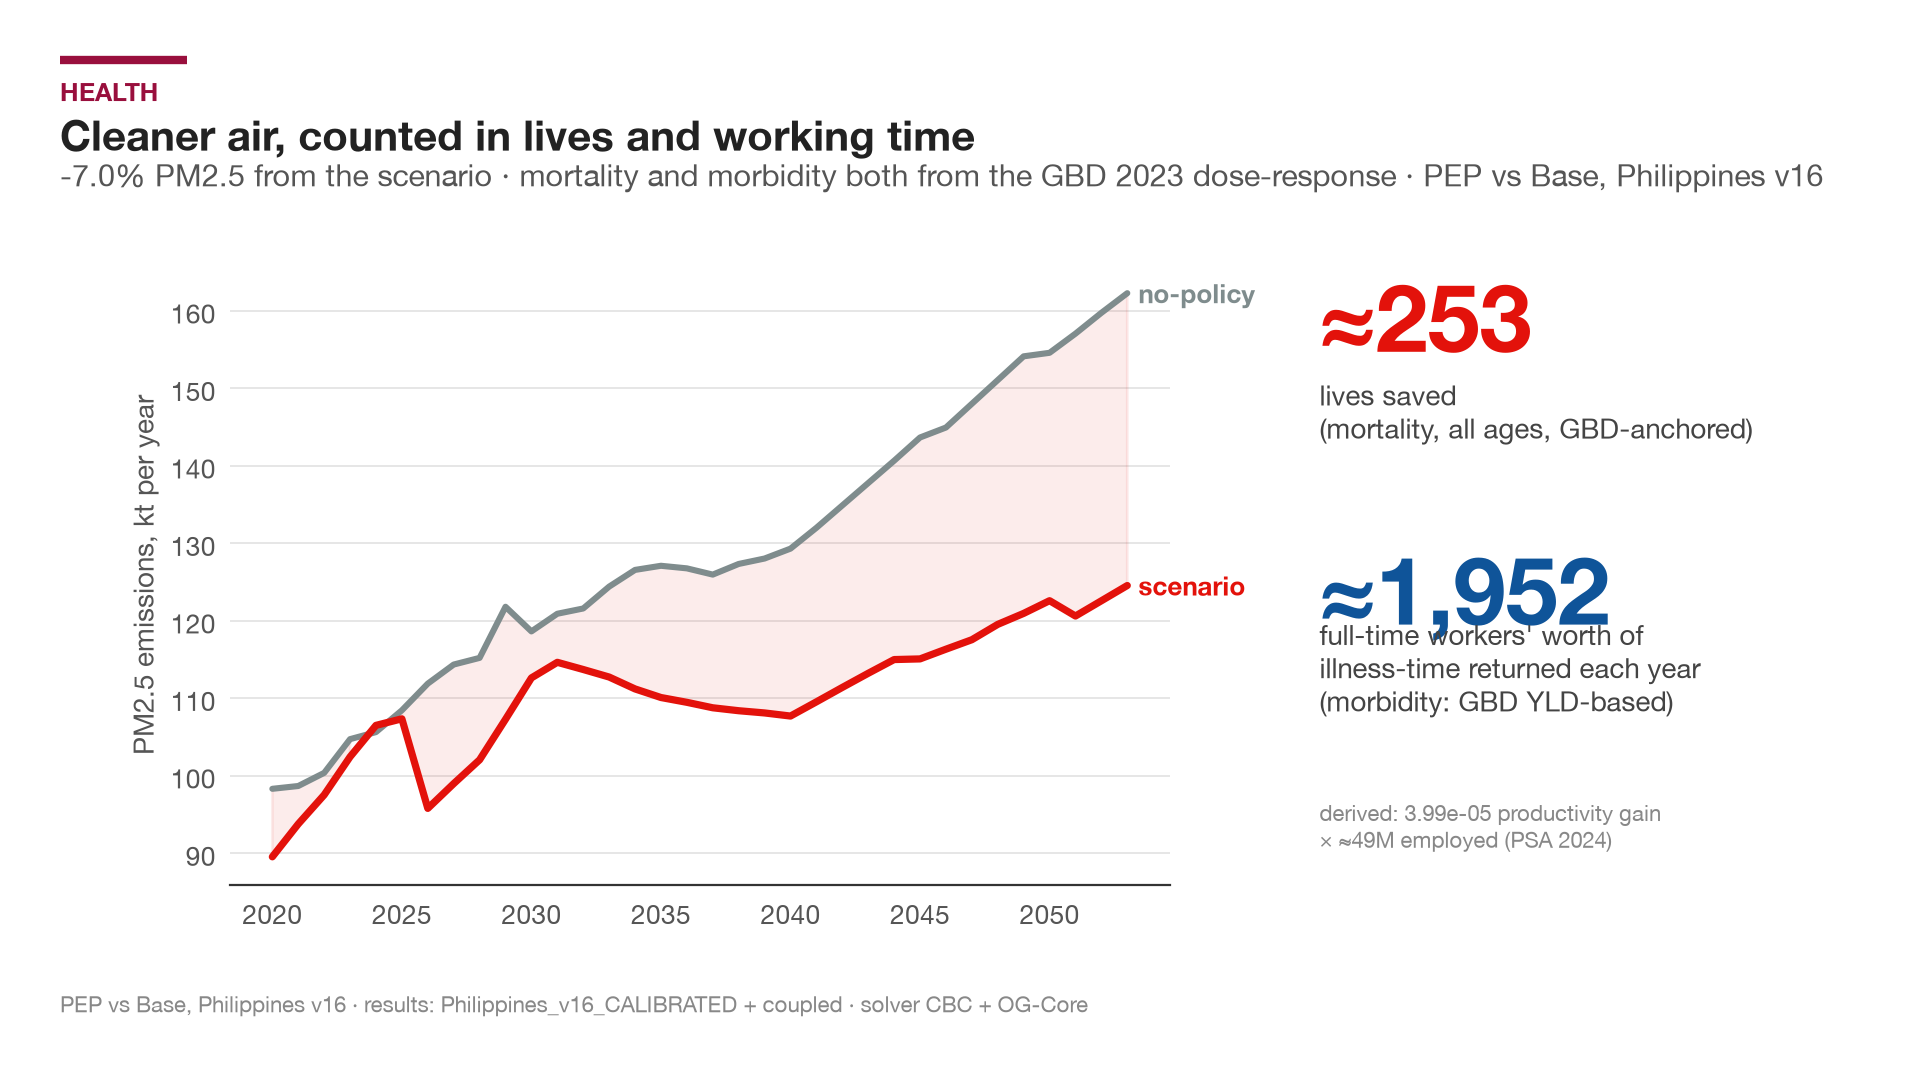
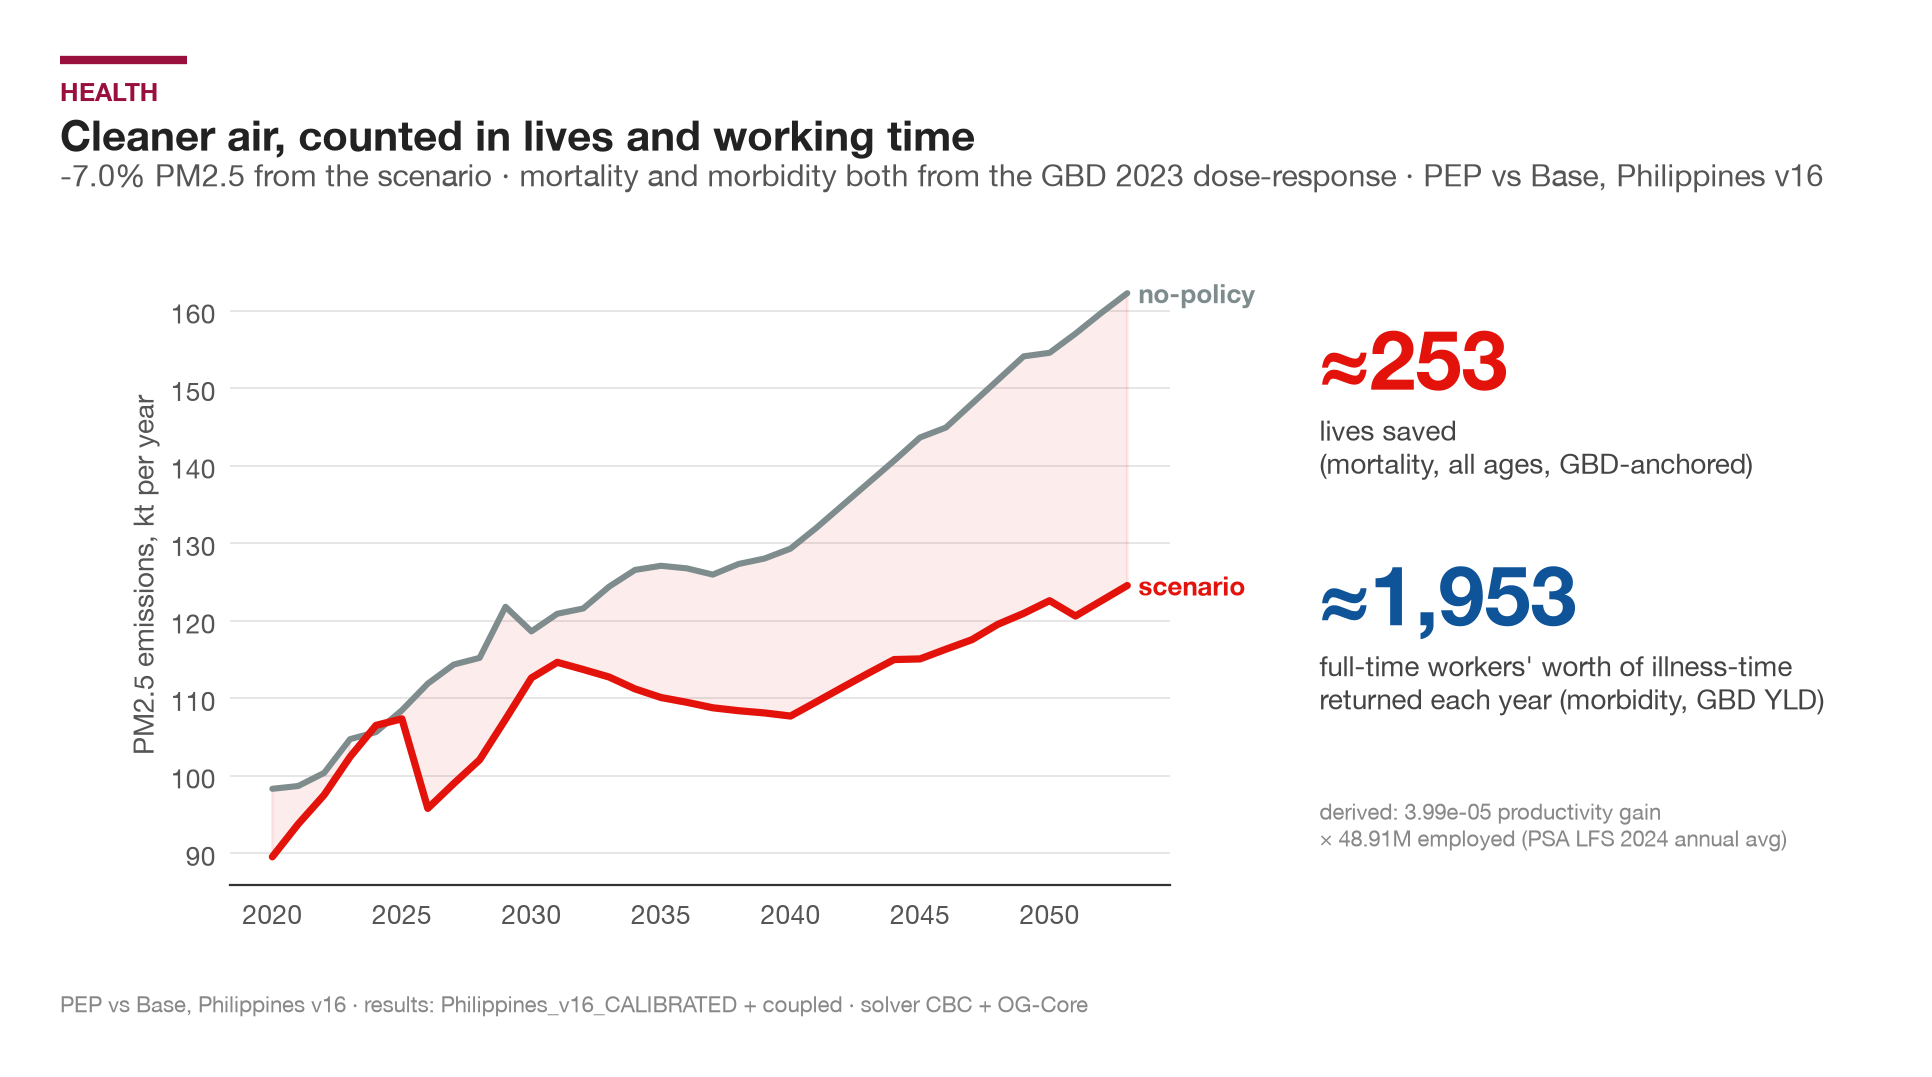
Methods paper closing sections: discussion (transmission first-order, one-pass, structural gap, health bridge, externally-checked calibration discipline), conclusion+roadmap, appendices (notation, touched objects, channel map, run record, battery/golden). Employment base 48.91M (PSA LFS 2024) throug

Changed region(s): [[0.6832, 0.5209, 0.9317, 0.6741], [0.6832, 0.2451, 0.9006, 0.4596], [0.6832, 0.7354, 0.9317, 0.7967]]

diff --git a/paper/sections/10-appendix.tex b/paper/sections/10-appendix.tex
@@ -1,18 +1,106 @@
 \section{Notation}
 \label{app:notation}
-% TODO: glossary table of symbols -- S, J, M, I; tau^c, tau^b, alpha_I, alpha_T;
-% K, K_g, gamma_m, gamma_{g,m}, Z; r, r_p, w, p_m; rho(s,t), e(t,s,j), c_min; theta_m.
 
-\section{OG-Core equations}
+\begin{table}[H]
+\centering\footnotesize
+\caption{Symbols used in the text.}
+\begin{tabular}{@{}llp{0.62\linewidth}@{}}
+\toprule
+& symbol & meaning \\
+\midrule
+dimensions
+& $S$ & periods of economic life (model age) \\
+& $J$ & lifetime-income (ability) types \\
+& $\Mind$ & production industries \\
+& $\Igood$ & consumption goods \\
+\addlinespace
+policy
+& $\tau^{c}_{i}$ & consumption-tax wedge on good $i$ (the energy wedge enters here) \\
+& $\tau^{b}$ & business income tax rate \\
+& $\alpha_I$ & public investment as a share of GDP \\
+& $\alpha_T$ & lump-sum transfers as a share of GDP (recycling enters here) \\
+\addlinespace
+production
+& $K$, $K_g$ & private and public capital \\
+& $\gamma_m$ & capital share of value added in industry $m$ \\
+& $\gamma_{g,m}$ & public-capital share in industry $m$ \\
+& $Z_m$ & total factor productivity in industry $m$ \\
+\addlinespace
+prices
+& $r$, $r_p$ & interest rate; household portfolio return \\
+& $w$ & wage \\
+& $p_m$ & output price of industry $m$ \\
+\addlinespace
+demography and labour
+& $\rho(s,t)$ & mortality hazard at age $s$, period $t$ \\
+& $e(t,s,j)$ & effective labour units by period, age, and type \\
+& $c_{\min,i}$ & subsistence (necessity) consumption of good $i$ \\
+\addlinespace
+mappings
+& $\theta_{m,i}$ & industry-to-consumption-good weights \\
+\bottomrule
+\end{tabular}
+\end{table}
+
+\section{The economy-model objects the mappings touch}
 \label{app:og-equations}
-% TODO: the household problem, firm FOCs, government budget, and market clearing in
-% full -- the detail compressed in Sec. 3.1.
+The complete statement of the household problem, firm first-order conditions,
+government budget, and market clearing is maintained in the \OGCore{} documentation
+and is not duplicated here; this appendix fixes which objects of that statement the
+mappings read or move, so the channel specifications of \Cref{sec:channels} can be
+checked against the host model.
 
-\section{The full channel-to-variable map}
+\emph{Households} choose consumption and labour over $S$ periods across $J$ types.
+The mappings touch: the consumption-tax vector $\tau^{c}_{i}$, where the household
+energy wedge enters the demand condition, the budget, and the composite price; the
+transfer share $\alpha_T$, where recycling returns the notional revenue; the
+mortality hazard $\rho(s,t)$ and the implied population, which the health mapping
+recomputes under a shocked survival schedule; the effective-labour profile
+$e(t,s,j)$, which the morbidity component scales on working ages; and the
+subsistence floor $c_{\min,i}$, which makes energy a partial necessity.
+
+\emph{Firms} in industry $m$ produce with private capital, public capital, and
+labour. The mappings touch: the capital share $\gamma_m$ of the electricity industry
+(the capital-intensity lever); the investment tax treatment inside the user cost of
+capital (the capital-demand lever); and industry unit costs, where the
+inter-industry cost-push applies exposure-weighted wedges.
+
+\emph{Government} taxes, spends, transfers, and borrows. The mappings touch: the
+public-investment share $\alpha_I$ (grid investment becomes public capital), the
+booking of consumption-tax revenue (the wedge and the standalone carbon payment),
+and, through $\alpha_T$, the transfer side of recycling.
+
+\emph{From the solved equilibrium}, the return mappings read the portfolio return
+$r_p$ (the planning-rate candidate) and industry output or household consumption
+(the demand-path candidate); they write files for the energy model and change
+nothing inside the economy.
+
+\section{The channel-to-object map}
 \label{app:channel-map}
-% TODO: the appendix-level diagram (reuse presentation diagram `channels`): each of the
-% eight channels at the variable level, with direction (colour + arrowhead) and theory
-% status (line style). NB the deck diagram currently shows seven -- add energy_capex.
+
+\begin{table}[H]
+\centering\footnotesize
+\caption{Every registered mapping, its direction, the object it moves, and its role
+in the application. ``Emitted'' mappings write energy-model inputs after the solve
+and bind nothing in a single pass.}
+\begin{tabularx}{\linewidth}{@{}l l L l@{}}
+\toprule
+mapping & direction & object moved & role \\
+\midrule
+\chan{energy\_price}      & \CLEWS$\to$\OGCore & $\tau^{c}_{i}$ on the energy good; optional recycle via $\alpha_T$ & applied in \chan{coupled} \\
+\chan{energy\_cost\_push} & \CLEWS$\to$\OGCore & industry unit costs via input--output exposure & applied in \chan{coupled} \\
+\chan{energy\_price\_tfp} & \CLEWS$\to$\OGCore & sectoral productivity $Z_m$ (alternative routing) & diagnostic alternative \\
+\chan{investment}         & \CLEWS$\to$\OGCore & $\alpha_I$ (public grid capex delta) & applied in \chan{coupled} \\
+\chan{health}             & \CLEWS$\to$\OGCore & $\rho(s,t)$ + population; $e(t,s,j)$ & applied in \chan{coupled} \\
+\chan{capital\_intensity} & \CLEWS$\to$\OGCore & $\gamma_m$ of the electricity industry & standalone lever \\
+\chan{energy\_capex}      & policy$\to$\OGCore & investment tax credit in the user cost & standalone lever \\
+\chan{carbon\_tax}        & policy$\to$\OGCore & consumption-side carbon payment + revenue & standalone lever; omitted from \chan{coupled} \\
+\chan{emit\_carbon\_penalty} & \OGCore$\to$\CLEWS & emissions-penalty input & emitted; inert in one pass \\
+\chan{emit\_discount\_rate}  & \OGCore$\to$\CLEWS & planning discount rate from $r_p$ & emitted; inert in one pass \\
+\chan{emit\_energy\_demand}  & \OGCore$\to$\CLEWS & demand path from activity & emitted; inert in one pass \\
+\bottomrule
+\end{tabularx}
+\end{table}
 
 \section{The archived run record}
 \label{app:run-record}
@@ -31,11 +119,28 @@ rather than a stale number. The record comprises:
 \item the run's figure set, from which \Cref{fig:transition,fig:incidence} are taken.
 \end{itemize}
 Two quoted quantities are supplied rather than derived from the record: the employment
-base behind the full-time-equivalent working-time figure (49 million employed), and
-the economy-model build identity, which appears in no run artifact and is recorded
-with the run's coordination notes.
+base behind the full-time-equivalent working-time figure (48.91 million employed ---
+the PSA Labour Force Survey 2024 annual average, derived from the published ratio of
+5.82 million underemployed = 11.9\% of the employed), and the economy-model build
+identity, which appears in no run artifact and is recorded with the run's coordination
+notes.
 
-\section{Battery items and full golden tables}
+\section{The run battery and the golden record}
 \label{app:battery}
-% TODO: the complete list of 24 battery items and the full per-run golden.json metrics
-% (SS + TPI t0/t10 aggregates, sectoral Y_m, residuals).
+The grouped battery executes the link in its own environment and the country
+\OGCore{} model in the country model's environment, exchanging files; a battery item
+passes when its solve completes and its read-outs are produced. The regression record
+(\texttt{results/golden.json}, v9 scenario pair) stores, for the baseline and each of
+eleven experiment configurations ---
+\chan{coupled}; \chan{energy\_price} (with a steady-state-only variant);
+\chan{clean\_incidence}; \chan{carbon}; \chan{investment} (with a steady-state-only
+variant); \chan{capital\_intensity} (with a steady-state-only variant);
+\chan{health}; \chan{demand}; and \chan{discount\_rate} ---
+the base and reform levels of $Y$, $C$, $K$, $L$, $r$, and $w$ at the steady state
+and at transition periods $t_0$ and $t_{10}$, together with sectoral outputs $Y_m$.
+The automated re-check enforces the recorded macro aggregates; the lock does not
+extend to emitted artifacts or the electricity-cost path
+(\Cref{sec:validation}). Two experiment names in the record predate the current
+registry naming (\chan{demand}, \chan{discount\_rate} --- now the \chan{emit\_}
+mappings of \Cref{app:channel-map}); the record is retained under its committed names
+because it is the evidence file the v9 claims cite.

diff --git a/paper/sections/08-discussion.tex b/paper/sections/08-discussion.tex
@@ -1,19 +1,95 @@
 \section{Discussion and Limitations}
 \label{sec:discussion}
 
-% TODO: be honest and specific (this is the paper's credibility section).
-%  - Calibrated vs illustrative: what is solid (mechanics, signs, the energy-demand
-%    response, incidence direction, health decomposition) vs what scales with data
-%    (carbon/investment magnitudes via the deflator; energy price once the real marginal cost is wired).
-%  - The maturity ladder: each channel is an approximation toward the marginal-cost-
-%    exchanging theoretical ideal (reuse presentation diagram `maturity`).
-%  - One-pass vs iterated: discount_rate and demand are latent until loop closure. The CLEWS
-%    re-solve seam is now built+validated (clews_driver: patch a case copy -> re-solve in
-%    MUIOGO's env -> re-read; +4.3% production for +10% demand on PHL v9; deterministic to
-%    0.002%), so what remains is only the outer damping/convergence controller -- state the
-%    fixed-point and that plan.
-%  - Structural gap: energy is not yet a priced production input (the structural ideal); consequences
-%    (no factor substitution away from energy, no inter-industry energy flows in the
-%    shipped core) and why the cost-push proxy is a defensible interim.
-%  - Health is reduced-form: the dose-response is an external GBD bridge, not endogenous.
-%  - Threats to validity / what would change the conclusions.
+\subsection{What is established, and what scales with data}
+The layered validation of \Cref{sec:validation} separates two kinds of claims, and the
+distinction should govern how the results are read. What the evidence establishes: the
+transforms are dimensionally guarded and fail loudly rather than silently; every
+implemented forward mapping is accepted by the economy solve; the response directions
+follow the stated mechanisms (a resource cost contracts, the factor-share lever is not
+a capital draw-in, the survival gain skews old and therefore carries almost no output);
+and the composition of the coupled response is pinned by construction and confirmed by
+matched runs. What remains conditional is every \emph{level}. The unit/deflator bridge
+between the energy model's money and the economy's num\'eraire is not yet audited, so
+any currency magnitude that crosses it --- carbon revenue, investment cost --- is
+illustrative. The electricity-cost signal is ratio-based and thus immune to the
+deflator, but it is a levelized cost, not a marginal price. The morbidity multiplier is
+a placeholder pending a country dose--response estimate. This is why every magnitude in
+\Cref{sec:results} travels as a relative change with its evidence base named.
+
+\subsection{The transmission choice is first-order}
+The single most consequential specification in the system is not a parameter but a
+routing. The composite's inter-industry leg treats the sectoral electricity-cost change
+as an exogenous unit-cost shift, scaled by input--output exposure; it is a reduced-form
+mapping, not a factor-demand system derived from the production block. Nearly the whole
+coupled response arrives through it, and a structural alternative that routes the same
+cost signal through sectoral productivity reverses the aggregate sign
+(\Cref{sec:decomposition}). The two routings embody different economic claims about
+what a costlier power system does to the rest of the economy, and the present framework
+cannot adjudicate between them because electricity is not a priced input inside
+production. Until it is, the choice is an assumption --- which is why the headline is
+never quoted without the transmission named.
+
+\subsection{One pass, not yet a fixed point}
+The emitted inputs --- the carbon-price artifact, the planning rate, the revised demand
+path --- bind nothing until a second energy-model solve consumes them. The mechanical
+seam for that second solve is built and tested: a controlled demand patch survives
+copy, re-solve, and read-back, deterministically. What does not yet exist is the outer
+controller --- damping, a convergence criterion, and control of propagated error across
+repeated solutions --- and the validation table lists closed-loop iteration as untested
+for exactly that reason. Until it lands, the system is a forward evaluator: the
+reported responses are conditional on an energy plan that has not yet been allowed to
+react to them.
+
+\subsection{The structural gap behind the proxy}
+The economy's production block takes capital and labour; electricity is not a priced
+intermediate. Two consequences follow. First, firms cannot substitute away from energy
+when it becomes dear, so the cost-push mapping, which imports input--output exposures
+from the social accounting matrix, has no behavioural margin behind it. Second,
+inter-industry energy flows cannot reallocate endogenously; the exposure weights are
+data, not decisions. The proxy is nonetheless a defensible interim: the exposures are
+country-sourced, the mapping is transparent enough to audit line by line, and the
+structural alternative --- adding a priced energy factor to the host model's
+production block --- would modify the host rather than link to it, breaking the
+non-invasive constraint the architecture is built on (\Cref{sec:framework}). The
+structural ideal belongs on the roadmap, not in the link.
+
+\subsection{Health is a sourced bridge, not an endogenous channel}
+The health mapping's inputs are sourced --- the burden total and both age profiles come
+from the Global Burden of Disease --- but the translation from power-sector emissions
+to that burden is a constructed dose--response scalar whose linearity is assumed, and
+the morbidity productivity multiplier is a placeholder. One further point is easy to
+miss: because ambient-particulate mortality is concentrated at post-working ages,
+aggregate output is nearly invariant to the mortality gain, and GDP is therefore the
+wrong summary statistic for this channel. The framework reports lives and returned
+working time as first-class outputs beside the aggregates for that reason, not as
+decoration.
+
+\subsection{Calibration discipline, checked externally}
+Every energy-side parameter the application touched was derived from a named source
+rather than tuned toward an observed outcome (\Cref{sec:calibration}), and each
+derivation is recorded with its source in the calibration register. That discipline
+recently acquired an external check: a subsequent, independently prepared release of
+the underlying country energy dataset adopted the same values for the coal capital
+cost, the small-modular-reactor capital cost, the large-hydro lifetime, the LNG
+chronology, the onshore-wind resource ceiling, and the two-sided land-endowment pin
+--- and removed the one incentive parameter the register had flagged as unsourced.
+Independent convergence on the same sourced values is the strongest evidence available
+that the register reflects the energy system being modelled rather than the
+calibrator's target.
+
+\subsection{Threats to validity}
+Compactly, what would change the conclusions:
+\begin{itemize}
+\item the transmission assumption --- sign-critical, as shown, and unresolved until
+  energy is priced in production;
+\item the unaudited deflator --- level-critical for carbon and investment;
+\item one-pass conditionality --- the energy plan has not reacted to the economy;
+\item the degenerate commodity dual --- the price signal is an average cost, and no
+  marginal interpretation survives it;
+\item the reduced-form health translation --- magnitude-critical for the health
+  channel's non-demographic content;
+\item scope --- one country, one scenario pair per evidence base, with the
+  composition established on a different pair than the illustration until the matched
+  runs are repeated there, and the regression lock covering the v9 pair only.
+\end{itemize}

diff --git a/paper/sections/09-conclusion.tex b/paper/sections/09-conclusion.tex
@@ -1,14 +1,39 @@
 \section{Conclusion and Roadmap}
 \label{sec:conclusion}
 
-% TODO: short. Restate the contribution (a small, careful library of auditable cause-
-% and-effect links -- a step beyond classic energy-economy models, using a richer
-% economy that tracks households, government, and who is affected) and the roadmap:
-%  1. Feed the real commodity marginal costs from a full CLEWS/MUIOGO run.
-%  2. Calibrate the unit/deflator bridge so cost and revenue sizes can be trusted.
-%  3. Close the loop -- the CLEWS re-solve seam is built+validated (clews_driver); what
-%     remains is the outer iteration controller (damping/convergence) that drives it to the
-%     price/quantity fixed point.
-%  4. Calibrate the health link on real Philippine PM2.5-and-health (GBD) data.
-%  5. Energy as a priced production input (the structural ideal for the energy channel).
-%  6. Integrate as the economic engine behind MUIOGO.
+The framework presented here is a small library of separately specified, separately
+validated economic mappings between a least-cost energy--land--water plan and an
+overlapping-generations economy. Each mapping carries one mechanism, enters the economy
+on one account, and is tested at the layer of the claim it makes; the coupled
+application composes them without hiding them, so any aggregate result can be traced
+back to the mapping --- and the assumption --- that produced it. Relative to the
+aggregate energy--economy couplings this literature descends from, the economy side
+here prices the consequences onto households that differ by age and lifetime income,
+onto industries that differ in exposure, and onto a government that must finance what
+the plan implies --- which is what makes incidence, cohort, and fiscal questions
+answerable at all.
+
+The path from here is concrete, and each step removes a named limitation:
+\begin{enumerate}
+\item \textbf{A marginal price signal.} The commodity dual is degenerate in the
+  present case, so the deployed signal is a levelized cost; a case where the dual is
+  informative --- or an explicit average-cost interpretation carried through the
+  theory --- closes the gap between the deployed price and the marginal-cost ideal.
+\item \textbf{The unit/deflator bridge.} Auditing the currency translation, channel by
+  channel, is what turns carbon and investment levels from illustrative into
+  quotable.
+\item \textbf{Loop closure.} The re-solve seam is built and tested; what remains is
+  the outer iteration controller --- damping and convergence on the price/quantity
+  fixed point --- after which the energy plan reacts to the economy it shapes.
+\item \textbf{A calibrated health translation.} The country dose--response and a
+  morbidity magnitude replace the placeholder, on the sourced Global Burden of
+  Disease scaffolding already in place.
+\item \textbf{Energy as a priced production input.} The structural resolution of the
+  transmission ambiguity documented in \Cref{sec:discussion} --- the single change
+  that would let the model, rather than an assumption, decide how system costs reach
+  the economy.
+\item \textbf{Deployment behind the planning interface.} The link runs from its own
+  environment against the energy model's own solver and case store, so the natural
+  end state is as the economic engine behind the planning tool's interface, invoked
+  after each energy solve.
+\end{enumerate}
